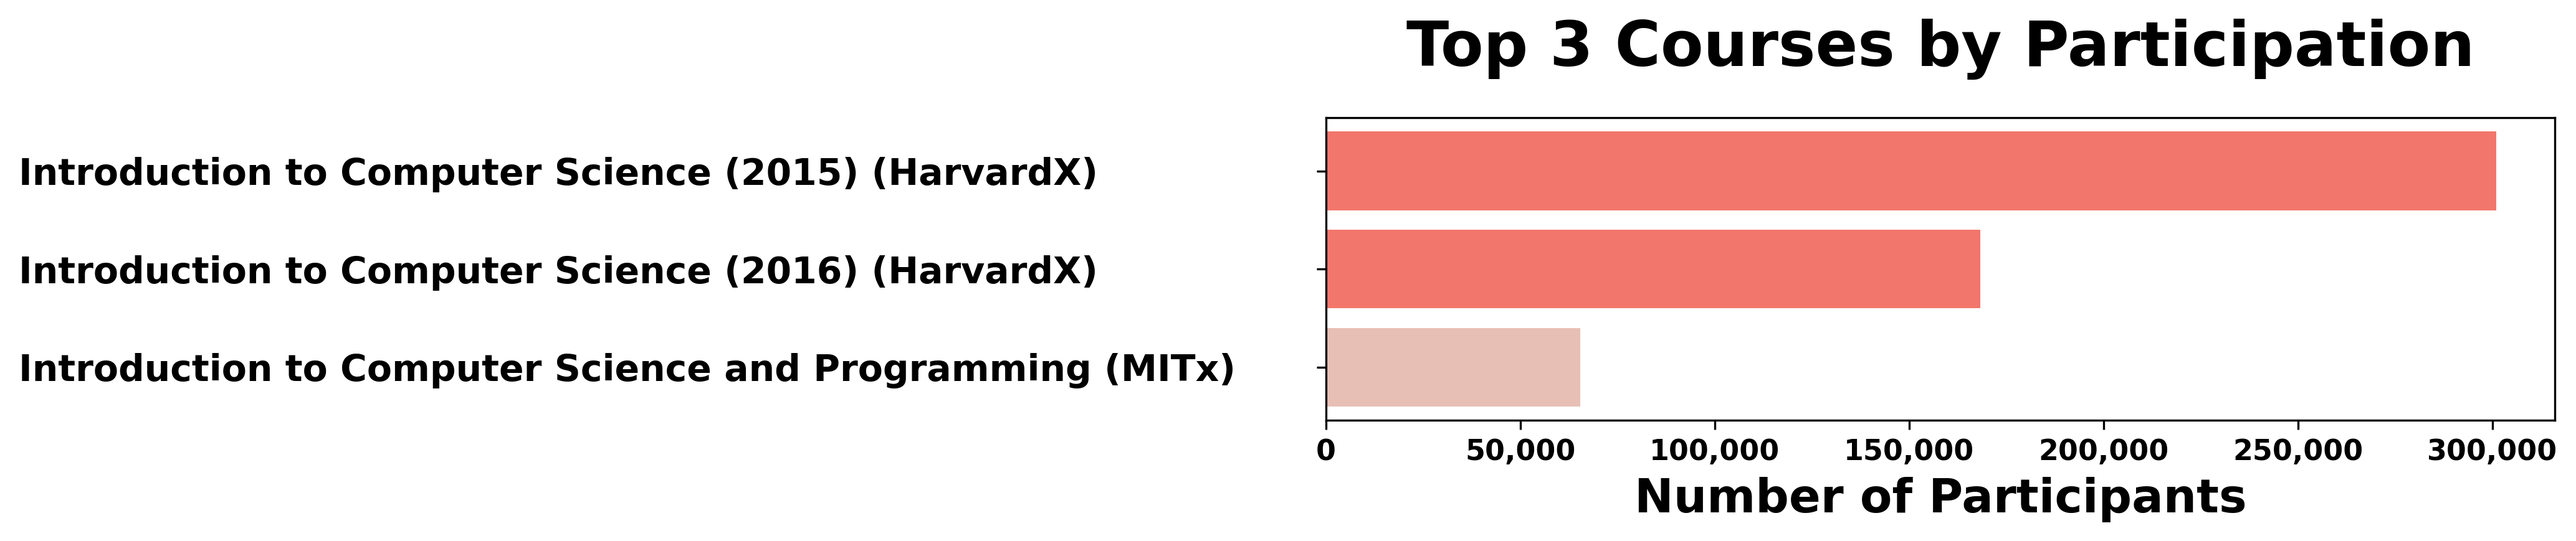
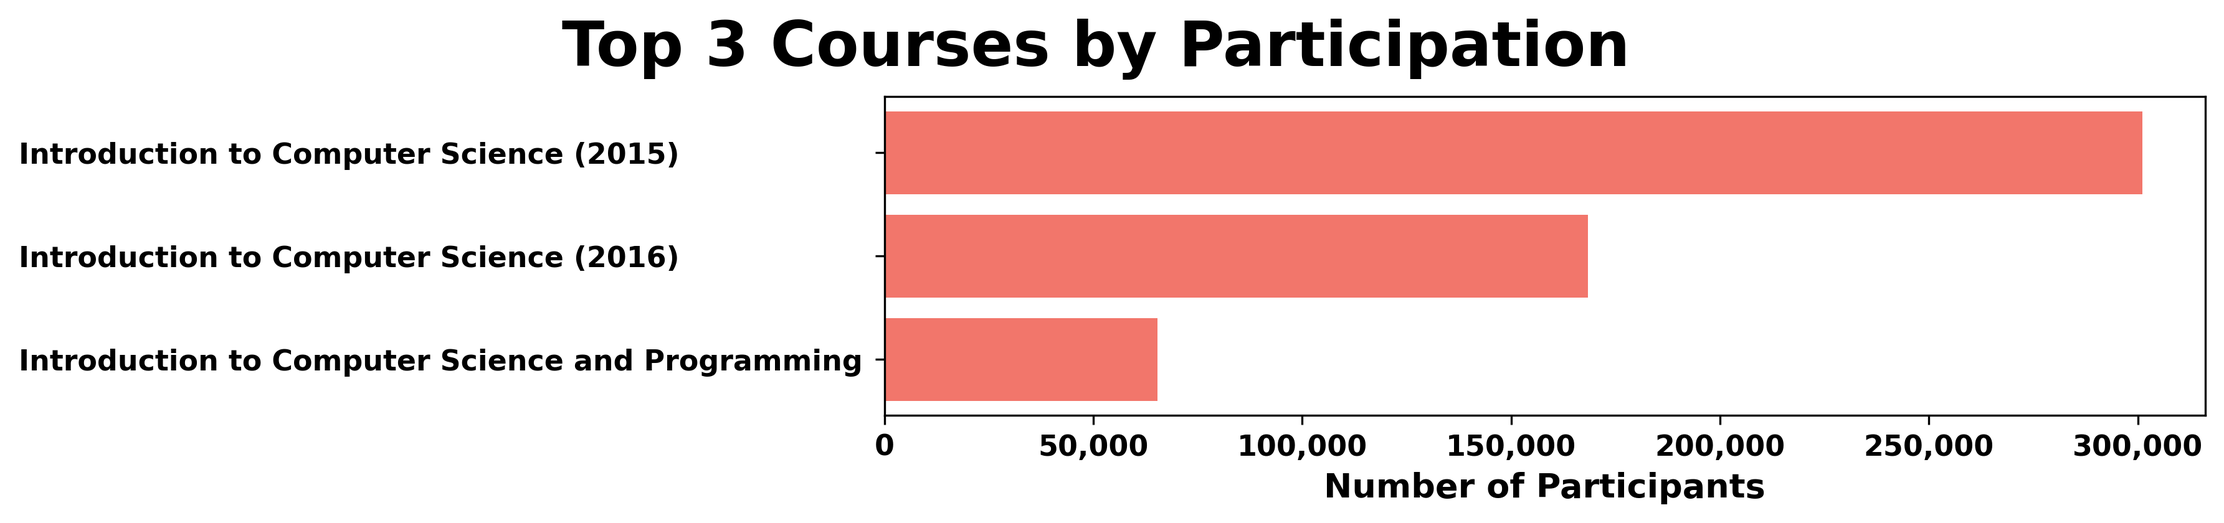
2. graf hotov

Changed region(s): [[0.0, 0.031, 0.995, 0.9595], [0.3731, 0.8357, 0.4042, 0.8667]]

diff --git a/README.md b/README.md
@@ -49,123 +49,63 @@ kurzy.to_csv("kurzy_cleaned.csv", index=False)
 
 import matplotlib.pyplot as plt
 import pandas as pd
-
-# Načtení dat z tabulky "kurzy_cleaned.csv"
-data = pd.read_csv("kurzy_cleaned.csv")
-
-# Data pro pie chart
-institutions = ["MITx", "HarvardX"]
-courses_offered = [
-    data[data["Institution"] == institution].shape[0] 
-    for institution in institutions
-]
-colors = ['#e8bfb5', '#F2766B']  # Barvy
-
-# Vytvoření pie chartu
-plt.figure(figsize=(8, 8))
-plt.pie(
-    courses_offered,
-    labels=institutions,
-    autopct='%1.1f%%',
-    startangle=140,
-    colors=colors,
-    textprops={'fontsize': 18, 'fontweight': 'bold', 'color': 'black'}
-)
-
-# Nastavení nadpisu
-plt.title("Proportion of Courses Offered by Institutions", fontsize=24, fontweight='bold', pad=10)
-
-# Zajištění kruhového tvaru
-plt.axis('equal')
-
-# Uložení grafu
-plt.savefig("Proportion_of_Courses_Offered_by_Institutions.png", bbox_inches='tight')
-
-# Zobrazení grafu
-plt.show()
-
-```
-![Graf](https://github.com/DanielaAntosova/Online-Courses-from-Harvard-and-MIT/blob/main/Proportion_of_Courses_Offered_by_Institutions.png "Proportion of Courses Offered by Institutions")
-
-MITx (Massachusettský technologický institut) poskytuje přibližně 55.5 % všech kurzů na edX, zatímco HarvardX má podíl 44.5 %.
-
-## Jaké jsou tři nejnavštěvovanější kurzy? 📚👨🏫✨
----
-```python
-import matplotlib.pyplot as plt
-import pandas as pd
 from matplotlib.ticker import StrMethodFormatter
 
 # Načtení dat z CSV souboru
-# Data obsahují informace o různých kurzech a jejich účastnících
 data = pd.read_csv("kurzy_cleaned.csv")
 
-# Seřadíme data podle počtu účastníků v kurzech, od nejvyššího po nejnižší
-sorted_data = data.sort_values(by='Participants_(Course_Content_Accessed)', ascending=False)
+# Seřazení dat podle počtu účastníků, sestupně
+data = data.sort_values(by='Participants_(Course_Content_Accessed)', ascending=False)
 
-# Odstraníme duplicitní kurzy (kurzy se stejným názvem) a zachováme pouze první výskyt každého kurzu
-unique_courses = sorted_data.drop_duplicates(subset='Course_Title', keep='first')
+# Výběr unikátních kurzů (první výskyt každého názvu)
+data = data.drop_duplicates(subset='Course_Title', keep='first')
 
-# Vybereme pouze první tři kurzy (top 3) podle počtu účastníků
-top_3_unique_courses = unique_courses.iloc[:3]
+# Výběr top 3 kurzů s nejvyšším počtem účastníků
+top_3_courses = data.iloc[:3].copy()
 
-# Přidáme k názvům kurzů informaci o instituci (např. HarvardX nebo MITx)
-# Výsledek bude například "Introduction to Computer Science (HarvardX)"
-top_3_unique_courses['Course_Info'] = (
-    top_3_unique_courses['Course_Title'] + " (" + top_3_unique_courses['Institution'] + ")"
+# Přidání informací o kurzu (včetně názvu a případně další úpravy)
+top_3_courses['Course_Info'] = top_3_courses['Course_Title']
+top_3_courses['Course_Info'] = top_3_courses['Course_Info'].replace(
+    'Introduction to Computer Science', 
+    'Introduction to Computer Science (2015)'
 )
 
-# Přejmenujeme specifický kurz, aby obsahoval rok 2015
-top_3_unique_courses['Course_Info'] = top_3_unique_courses['Course_Info'].replace(
-    'Introduction to Computer Science (HarvardX)', 
-    'Introduction to Computer Science (2015) (HarvardX)'
-)
+# Vytvoření horizontálního sloupcového grafu
+plt.figure(figsize=(12, 3))  # Nastavení velikosti grafu
 
-# Vytvoříme mapování barev pro instituce (MITx a HarvardX) podle preferovaných barev
-color_mapping = {'MITx': '#e8bfb5', 'HarvardX': '#F2766B'}
-# Přiřadíme barvy kurzům podle toho, ke které instituci patří
-colors = top_3_unique_courses['Institution'].map(color_mapping)
-
-# Nastavíme velikost grafu (šířka = 14, výška = 3)
-plt.figure(figsize=(14, 3))
-
-# Vytvoříme horizontální sloupcový graf
-# Na ose y budou názvy kurzů a na ose x počet účastníků
+# Vykreslení sloupců
 bars = plt.barh(
-    top_3_unique_courses['Course_Info'],  # Popisky osy y (kurzy)
-    top_3_unique_courses['Participants_(Course_Content_Accessed)'],  # Hodnoty osy x (počet účastníků)
-    color=colors  # Barvy sloupců
+    top_3_courses['Course_Info'],  # Popisky osy y (kurzy)
+    top_3_courses['Participants_(Course_Content_Accessed)'],  # Hodnoty osy x (počet účastníků)
+    color='#F2766B'  # Barva sloupců
 )
 
-# Přidáme název grafu
-plt.title('Top 3 Courses by Participation', 
-          fontsize=24, fontweight='bold', pad=20, loc='center')  # Nastavení fontu a zarovnání
-# Popisek osy x
-plt.xlabel('Number of Participants', fontsize=18, fontweight='bold')
-# Popisek osy y není potřeba, protože sloupce mají popisky
+# Přidání hlavního nadpisu grafu (ručně umístěného)
+plt.text(0.16, 1.15,  # Souřadnice textu relativně k grafu
+         'Top 3 Courses by Participation',  # Text nadpisu
+         fontsize=24, fontweight='bold', 
+         transform=plt.gca().transAxes,  # Transformace pro relativní pozicování
+         ha='center', va='center')  # Zarovnání
 
-# Zvýšíme velikost a tučnost textu na ose y (názvy kurzů)
-plt.yticks(fontsize=14, fontweight='bold', ha='left')
+# Popisky os
+plt.xlabel('Number of Participants', fontsize=13, fontweight='bold')
+plt.yticks(fontsize=11, fontweight='bold', ha='left')
 
-# Posuneme popisky osy y dál od grafu
-ax = plt.gca()  # Získáme aktuální graf
-ax.tick_params(axis='y', pad=500)  # Posuneme popisky doleva o 500 bodů
+# Posunutí popisků osy y pro lepší čitelnost
+plt.gca().tick_params(axis='y', pad=330)
 
-# Přidáme prostor na levé straně grafu pro dlouhé názvy kurzů
-plt.subplots_adjust(left=0.6)
-
-# Na ose x formátujeme čísla tak, aby oddělovala tisíce čárkou (např. 10,000)
+# Na ose x formátování čísel pro oddělení tisíců čárkou
 plt.gca().xaxis.set_major_formatter(StrMethodFormatter('{x:,.0f}'))
 
-# Zvýšíme velikost a tučnost čísel na ose x
-plt.gca().tick_params(axis='x', labelsize=11)  # Velikost textu
-for label in plt.gca().get_xticklabels():  # Pro každý popisek osy x
-    label.set_fontweight('bold')  # Nastavíme tučnost
+# Zvýraznění čísel na ose x
+plt.gca().tick_params(axis='x', labelsize=11)
+for label in plt.gca().get_xticklabels():
+    label.set_fontweight('bold')
 
-# Obrátíme pořadí osy y, aby nejpopulárnější kurz byl nahoře
+# Obrácení pořadí osy y, aby nejpopulárnější kurz byl nahoře
 plt.gca().invert_yaxis()
 
-# Automaticky nastavíme rozložení prvků v grafu tak, aby vše sedělo
+# Automatické zarovnání prvků v grafu
 plt.tight_layout()
 
 # Uložení grafu jako obrázku ve formátu PNG
